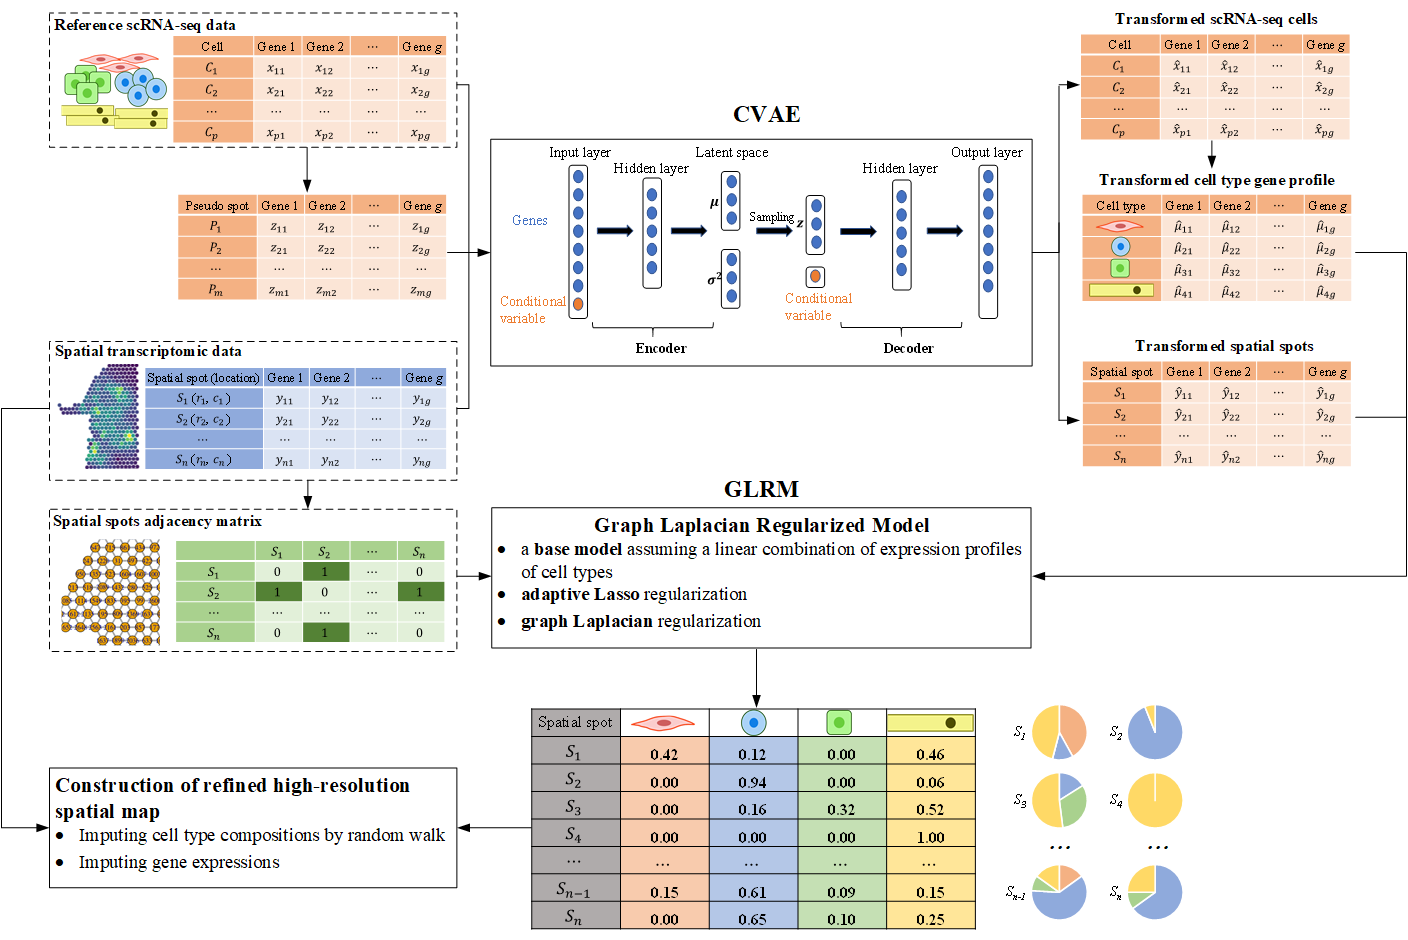
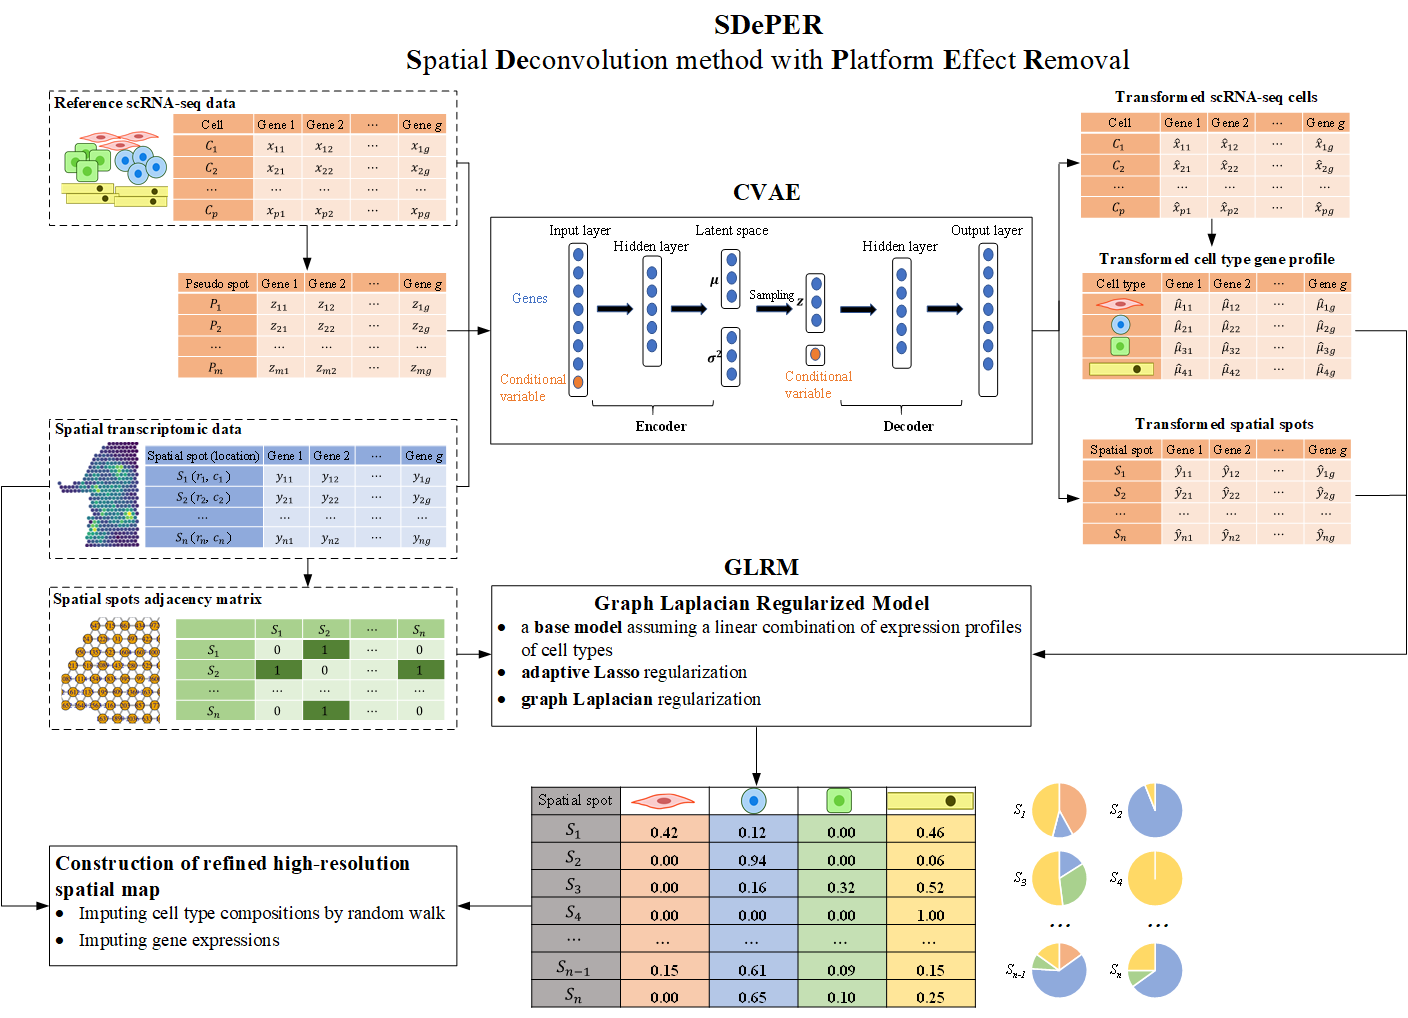
Change package name

Changed region(s): [[0.0, 0.0, 1.0, 1.0]]

diff --git a/_layouts/default.html b/_layouts/default.html
@@ -3,7 +3,7 @@
   <head>
     <meta charset="UTF-8">
     <!-- overwrite title tag shown in the browser's title bar, default it's "title | description" -->
-    <title> CVAE-GLRM </title>
+    <title> SDePER </title>
     
 {% seo %}
     <link rel="preconnect" href="https://fonts.gstatic.com">
@@ -19,13 +19,13 @@
 
     <header class="page-header" role="banner">
       <h1 class="project-name">{{ page.title | default: site.title | default: site.github.repository_name }}</h1>
-      <h2 class="project-tagline"><span style="font-weight: bold">C</span>onditional <span style="font-weight: bold">V</span>ariational <span style="font-weight: bold">A</span>uto<span style="font-weight: bold">E</span>ncoder - <span style="font-weight: bold">G</span>raph <span style="font-weight: bold">L</span>aplacian <span style="font-weight: bold">R</span>egularized <span style="font-weight: bold">M</span>odel</h2>
+      <h2 class="project-tagline"><span style="font-weight: bold">S</span>patial <span style="font-weight: bold">De</span>convolution method with <span style="font-weight: bold">P</span>latform <span style="font-weight: bold">E</span>ffect <span style="font-weight: bold">R</span>emoval</h2>
       {% if site.github.is_project_page %}
         <a href="{{ site.github.repository_url }}" class="btn">View on GitHub</a>
       {% endif %}
       {% if site.show_downloads %}
-        <a href="https://cvae-glrm.readthedocs.io/en/latest/" class="btn">Documentation</a>
-        <a href="https://github.com/az7jh2/CVAE-GLRM_Analysis" class="btn">Analysis Repo</a>
+        <a href="https://sdeper.readthedocs.io/en/latest/" class="btn">Documentation</a>
+        <a href="https://github.com/az7jh2/SDePER_Analysis" class="btn">Analysis Repo</a>
       {% endif %}
     </header>
 

diff --git a/index.md b/index.md
@@ -1,9 +1,32 @@
-[![PyPI - Python Version](https://img.shields.io/pypi/pyversions/cvae-glrm)](https://www.python.org/) [![GitHub release (latest by date)](https://img.shields.io/github/v/release/az7jh2/CVAE-GLRM)](https://github.com/az7jh2/CVAE-GLRM) [![PyPI](https://img.shields.io/pypi/v/cvae-glrm)](https://pypi.org/project/cvae-glrm/) ![Conda](https://img.shields.io/conda/v/bioconda/cvae-glrm) [![Docker Image Version (latest by date)](https://img.shields.io/docker/v/az7jh2/cvae-glrm?label=docker)](https://hub.docker.com/repository/docker/az7jh2/cvae-glrm/general) [![Read the Docs (version)](https://img.shields.io/readthedocs/cvae-glrm/latest)](https://cvae-glrm.readthedocs.io/en/latest/)
+# SDePER
+[![PyPI - Python Version](https://img.shields.io/pypi/pyversions/sdeper)](https://www.python.org/) [![GitHub release (latest by date)](https://img.shields.io/github/v/release/az7jh2/SDePER)](https://github.com/az7jh2/SDePER) [![PyPI](https://img.shields.io/pypi/v/sdeper)](https://pypi.org/project/sdeper/) [![Docker Image Version (latest by date)](https://img.shields.io/docker/v/az7jh2/sdeper?label=docker)](https://hub.docker.com/repository/docker/az7jh2/sdeper/general) [![Read the Docs (version)](https://img.shields.io/readthedocs/sdeper/latest)](https://sdeper.readthedocs.io/en/latest/)
 
 ![flowchart](Flowchart.png)
 
-CVAE-GLRM is a two-step **hybrid** machine learning and regression method considering platform effect, spatial information and sparsity in **deconvolution** of spatial transcriptomic data using reference single-cell RNA sequencing data from same tissue type. CVAE-GLRM further supports **imputing cell type compositions and gene expression at enhanced resolution** by constructing random walk on the estimated cell type compositions.
+SDePER (**S**patial **De**convolution method with **P**latform **E**ffect **R**emoval) is a two-step **hybrid** machine learning and regression method considering platform effect, spatial information and sparsity in **deconvolution** of spatial transcriptomic data using reference single-cell RNA sequencing data from same tissue type.
 
-**Full documentation** for CVAE-GLRM is available on [Read the Docs](https://cvae-glrm.readthedocs.io/en/latest/).
+## Quick Start
 
-For Notebooks and results of running CVAE-GLRM on both Simulated and Real datasets, and Notebooks of Figure Panels in manuscript please refer GitHub repository [CVAE-GLRM_Analysis](https://github.com/az7jh2/CVAE-GLRM_Analysis).
+SDePER can be installed via `pip`
+
+```bash
+conda create -n sdeper-env python=3.9.12
+pip install sdeper
+```
+
+SDePER requires **4 input files** for cell type deconvolution:
+
+1. raw nUMI counts of **spatial transcriptomic data** (spots × genes): `spatial.csv`
+2. raw nUMI counts of **reference scRNA-seq data** (cells × genes): `scrna_ref.csv`
+3. **cell type annotations** for all cells in scRNA-seq data (cells × 1): `scrna_anno.csv`
+4. **adjacency matrix** of spots in spatial transcriptomic data (spots × spots): `adjacency.csv`
+
+To start cell type deconvolution by running
+
+```bash
+runDeconvolution -q spatial.csv -r scrna_ref.csv -c scrna_anno.csv -a adjacency.csv
+```
+
+**Full Documentation** for SDePER is available on [Read the Docs](https://sdeper.readthedocs.io/en/latest/).
+
+**Example Analysis** with SDePER are available in our GitHub repository [SDePER_Analysis](https://github.com/az7jh2/SDePER_Analysis).

diff --git a/README.md b/README.md
@@ -1,2 +1,2 @@
-# CVAE-GLRM GitHub Pages
-This branch is use for generating GitHub Pages only.
+# SDePER GitHub Pages
+This branch is used for generating GitHub Pages only.
